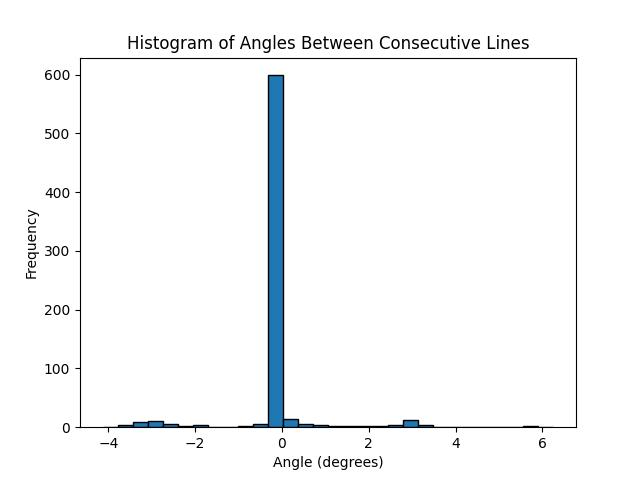
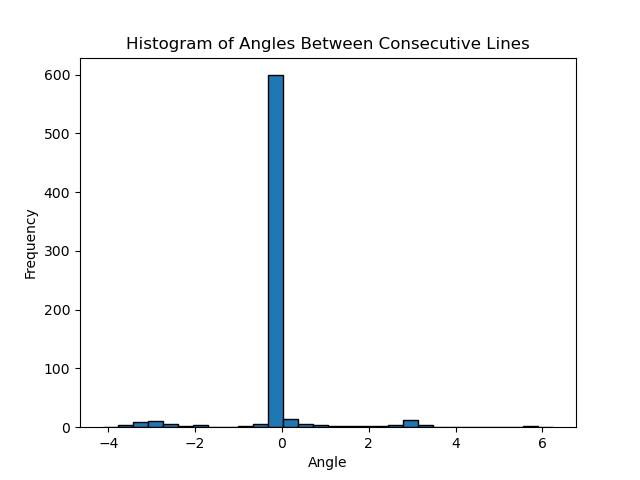
temp commit before rewrite

diff --git a/src/autonomous_take_home_project/src/main.cpp b/src/autonomous_take_home_project/src/main.cpp
@@ -43,6 +43,9 @@ public:
         target_last_velocity.z = 0.0;
 
         target_last_angle = 0.0;
+        
+        target_last_angle_2 = target_last_angle;
+        target_last_location_2 = target_last_location;
 
         lvtl = vehicle_last_location;
 
@@ -66,7 +69,7 @@ private:
         // Get location
         double x = msg->location.x;
         double y = msg->location.y;
-        printf("Published:\nTime: %f\t x: %.2f\t y: %.2f\n", new_time, x, y);
+        // printf("Published:\nTime: %f\t x: %.2f\t y: %.2f\n", new_time, x, y);
 
         msgs::msg::Response response_msg;
         double time_diff = new_time - last_time;
@@ -111,6 +114,7 @@ private:
         // Check if getting to this point has too much angle
         if (fabs(target_angular_velocity) > max_angular_velocity)
         {
+            printf("OUTLIER: %.2f\n", target_angular_velocity);
             if (target_angular_velocity < 0)
             {
                 target_angular_velocity = max_angular_velocity * -1;
@@ -138,7 +142,7 @@ private:
         msgs::msg::Kinematics vehicle;
 
         vehicle.position = new_point;
-        printf("\t\t new_x: %.2f\t new_y: %.2f\n", new_point.x, new_point.y);
+        // printf("\t\t new_x: %.2f\t new_y: %.2f\n", new_point.x, new_point.y);
 
         geometry_msgs::msg::Vector3 vehicle_velocity;
         vehicle_velocity.x = (new_point.x - lvtl.x) / time_diff;
@@ -242,8 +246,10 @@ private:
     double vehicle_last_angle;
 
     geometry_msgs::msg::Point target_last_location;
+    geometry_msgs::msg::Point target_last_location_2;
     geometry_msgs::msg::Vector3 target_last_velocity;
     double target_last_angle;
+    double target_last_angle_2;
 
     geometry_msgs::msg::Point lvtl; // Last valid target location
 

diff --git a/spline_test.py b/spline_test.py
@@ -2,8 +2,8 @@ import numpy as np
 import scipy.interpolate as interpolate
 import matplotlib.pyplot as plt
 
-x = np.array([ 0. ,  1.2,  1.9,  3.2,  4. ,  6.5])
-y = np.array([ 0. ,  2.3,  3. ,  4.3,  2.9,  3.1])
+x = np.array([0,  1,  2,  3,  4, 5])
+y = np.array([0,  1,  2,  2,  2, 2])
 
 t, c, k = interpolate.splrep(x, y, k=4)
 N = 100

diff --git a/plot.py b/plot.py
@@ -31,7 +31,7 @@ for i in range(1, len(x_coords) - 1):
 # Plot the histogram of angles
 plt.figure()
 plt.hist(angles, bins=30, edgecolor='black')
-plt.xlabel('Angle (degrees)')
+plt.xlabel('Angle')
 plt.ylabel('Frequency')
 plt.title('Histogram of Angles Between Consecutive Lines')
 plt.savefig("angles_histogram.jpg")
